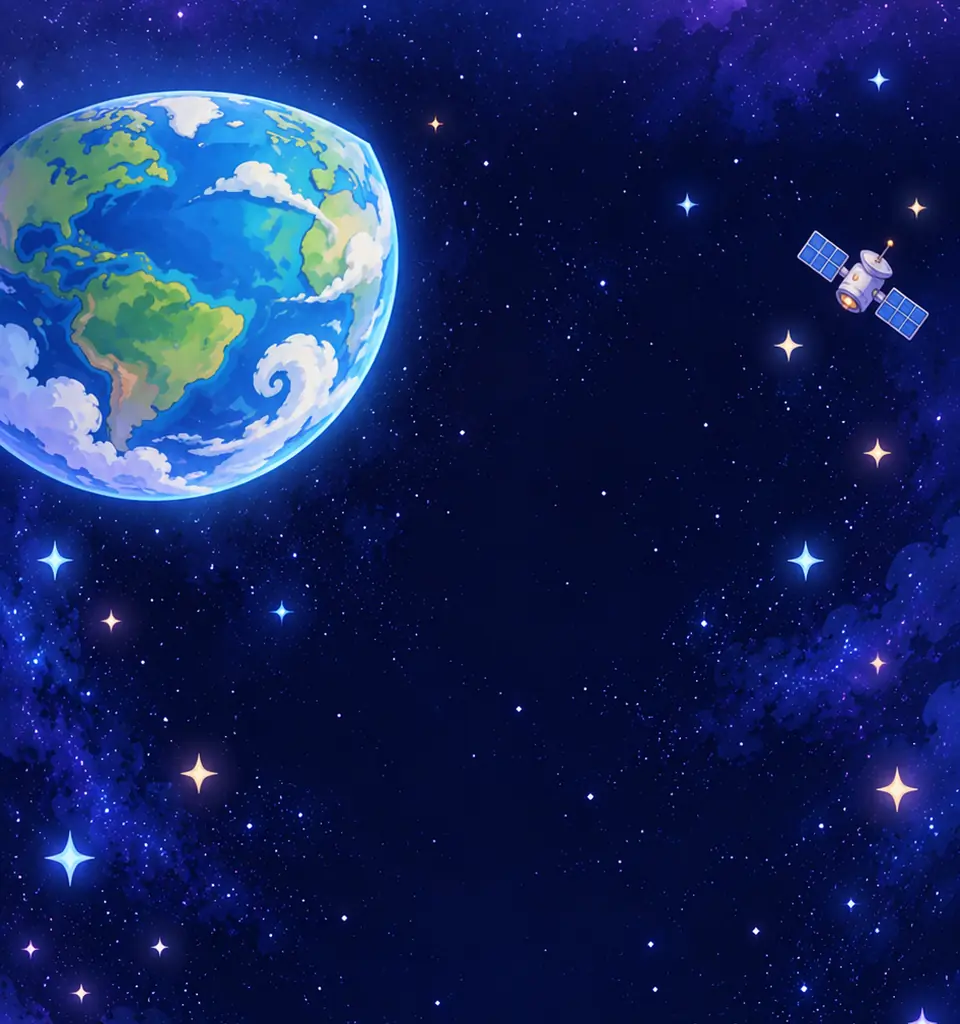
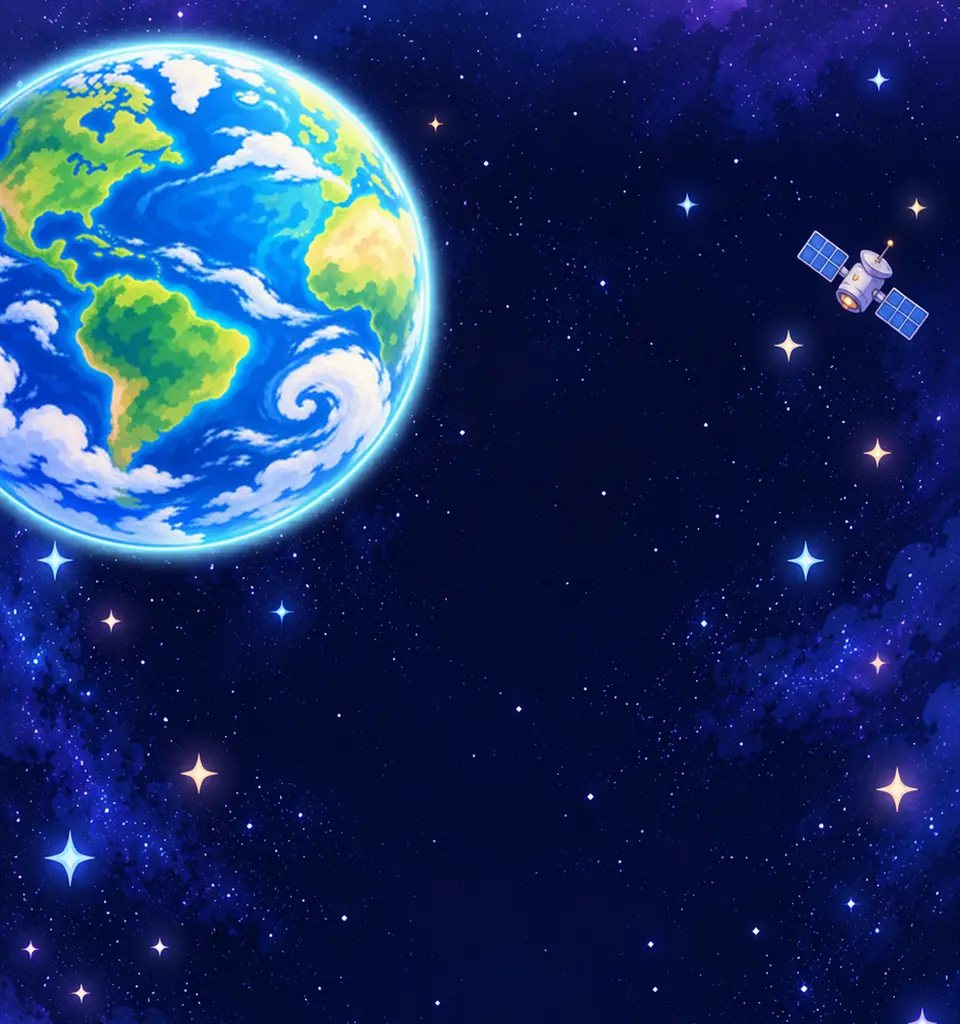
v0.9.139 1스테이지부터 배경이 바로 올라감·10스테이지 지구 동그랗게·6스테이지 이름 반짝 소용돌이

Changed region(s): [[0.0, 0.0, 0.4688, 0.5625]]

diff --git a/index.html b/index.html
@@ -2109,7 +2109,7 @@
   const elTitle = document.getElementById("overTitle");
   const coinNote = document.getElementById("coinNote");
 
-  const GAME_VERSION = "v0.9.138";
+  const GAME_VERSION = "v0.9.139";
   /* 제작사 스플래시(bamhobak friends 로고) — 2026-09-20 끔. 다시 켜려면 true */
   const SPLASH_USE = false;   // 코드를 고칠 때마다 뒤 두 자리를 올린다
   document.getElementById("ver").textContent = GAME_VERSION;
@@ -3096,7 +3096,7 @@
   /* v0.9.138 한 장처럼 이어지는 긴 배경 — 꽃밭부터 똥대장네 집까지 스테이지마다 한 칸씩 이어 그린 그림(Codex, tools/gen_long.py)을
      tools/build_long.py 가 아래부터 LONG_CH px 조각(assets/bg/long/cNN.webp)으로 잘라 둔다. 스테이지 k 의 한가운데 시각(k-0.5)에
      화면 가운데가 LONG_ANCH[k-1](아래에서 잰 px)에 오도록 레벨 시계를 따라 쭉 내려온다 — 지대마다 그림을 겹쳐 녹이던 방식은 뺐다. */
-  /*LONG-BEGIN*/ const LONG_H = 23409, LONG_CH = 1024, LONG_N = 23, LONG_ANCH = [850, 2130, 3410, 4690, 5970, 7250, 8500, 9756, 11036, 12316, 13596, 14876, 16156, 17436, 18716, 19999, 21279, 22559]; /*LONG-END*/
+  /*LONG-BEGIN*/ const LONG_H = 23409, LONG_CH = 1024, LONG_N = 23, LONG_V = 12992, LONG_ANCH = [850, 2130, 3410, 4690, 5970, 7250, 8500, 9756, 11036, 12316, 13596, 14876, 16156, 17436, 18716, 19999, 21279, 22559]; /*LONG-END*/
   const LONG_IMG = [];
   function longLoad(i) {
     if (i < 0 || i >= LONG_N || LONG_IMG[i] !== undefined) return;
@@ -3104,7 +3104,7 @@
     const im = new Image();
     im.onload = () => { LONG_IMG[i] = im; };
     im.onerror = () => { LONG_IMG[i] = undefined; };
-    im.src = "assets/bg/long/c" + (i < 10 ? "0" : "") + i + ".webp?" + LONG_H;
+    im.src = "assets/bg/long/c" + (i < 10 ? "0" : "") + i + ".webp?" + LONG_V;
   }
   for (let i = 0; i < 3; i++) longLoad(i);                                   // 처음 꽃밭 부분은 바로
   window.addEventListener("load", () => { let i = 3; const nx = () => { if (i >= LONG_N) return; longLoad(i++); setTimeout(nx, 250); }; nx(); });
@@ -15027,7 +15027,7 @@
       sky: [[ 54, 118, 208], [102, 166, 236], [178, 214, 247]] },
     { nm: "구름 줄무늬",     ic: "🎈", gr: "cloud", cl: 0.22, st: 0.30,
       sky: [[ 24,  62, 142], [ 54, 106, 184], [122, 170, 220]] },
-    { nm: "반짝 물결", ic: "☁", gr: "cloud", cl: 0.10, st: 0.55,
+    { nm: "반짝 소용돌이", ic: "🌀", gr: "cloud", cl: 0.10, st: 0.55,
       sky: [[ 13,  34,  98], [ 30,  68, 142], [ 76, 122, 182]] },
     { nm: "오로라 커튼", ic: "🌌", gr: "metal", cl: 0.03, st: 0.78, au: 1,
       sky: [[  8,  18,  58], [ 16,  42,  94], [ 30,  72, 122]] },
@@ -15152,7 +15152,7 @@
     const lo = vh / 2, hi = Math.max(lo, LONG_H - vh / 2), n = LONG_ANCH.length;
     let c;
     if (!n) c = lo;
-    else if (t <= 0.5) c = lo + (Math.max(lo, LONG_ANCH[0]) - lo) * Math.max(0, t) / 0.5;
+    else if (n < 2 || t <= 1.5) c = lo + ((n < 2 ? LONG_ANCH[0] : LONG_ANCH[1]) - lo) * Math.max(0, t) / (n < 2 ? 0.5 : 1.5);   // v0.9.139 시작부터 바로 올라간다 (예전엔 1스테이지 앞 절반을 꽃밭에 붙잡아 뒀다)
     else if (t >= n - 0.5) c = LONG_ANCH[n - 1];
     else { const k = Math.floor(t - 0.5), f = t - 0.5 - k; c = LONG_ANCH[k] + (LONG_ANCH[k + 1] - LONG_ANCH[k]) * f; }
     return Math.max(lo, Math.min(hi, c)) - vh / 2;

diff --git a/README.md b/README.md
@@ -5,7 +5,7 @@
 👉 **플레이: https://bamhobak.github.io/ddongpi/**
 
 > 이 문서는 `index.html` 의 실제 값을 옮겨 적은 것입니다. 숫자를 고쳤으면 여기도 같이 고쳐 주세요.
-> 마지막으로 맞춰 본 판: **v0.9.138**
+> 마지막으로 맞춰 본 판: **v0.9.139**
 
 ## ⚔ 대전모드 (v0.8.24 한 폰 · v0.8.25 두 폰)
 시작하기를 누르면 **[방 만들기] · [방 참가](방 번호 4자리) · [한 폰으로 둘이서]** 를 고릅니다.
